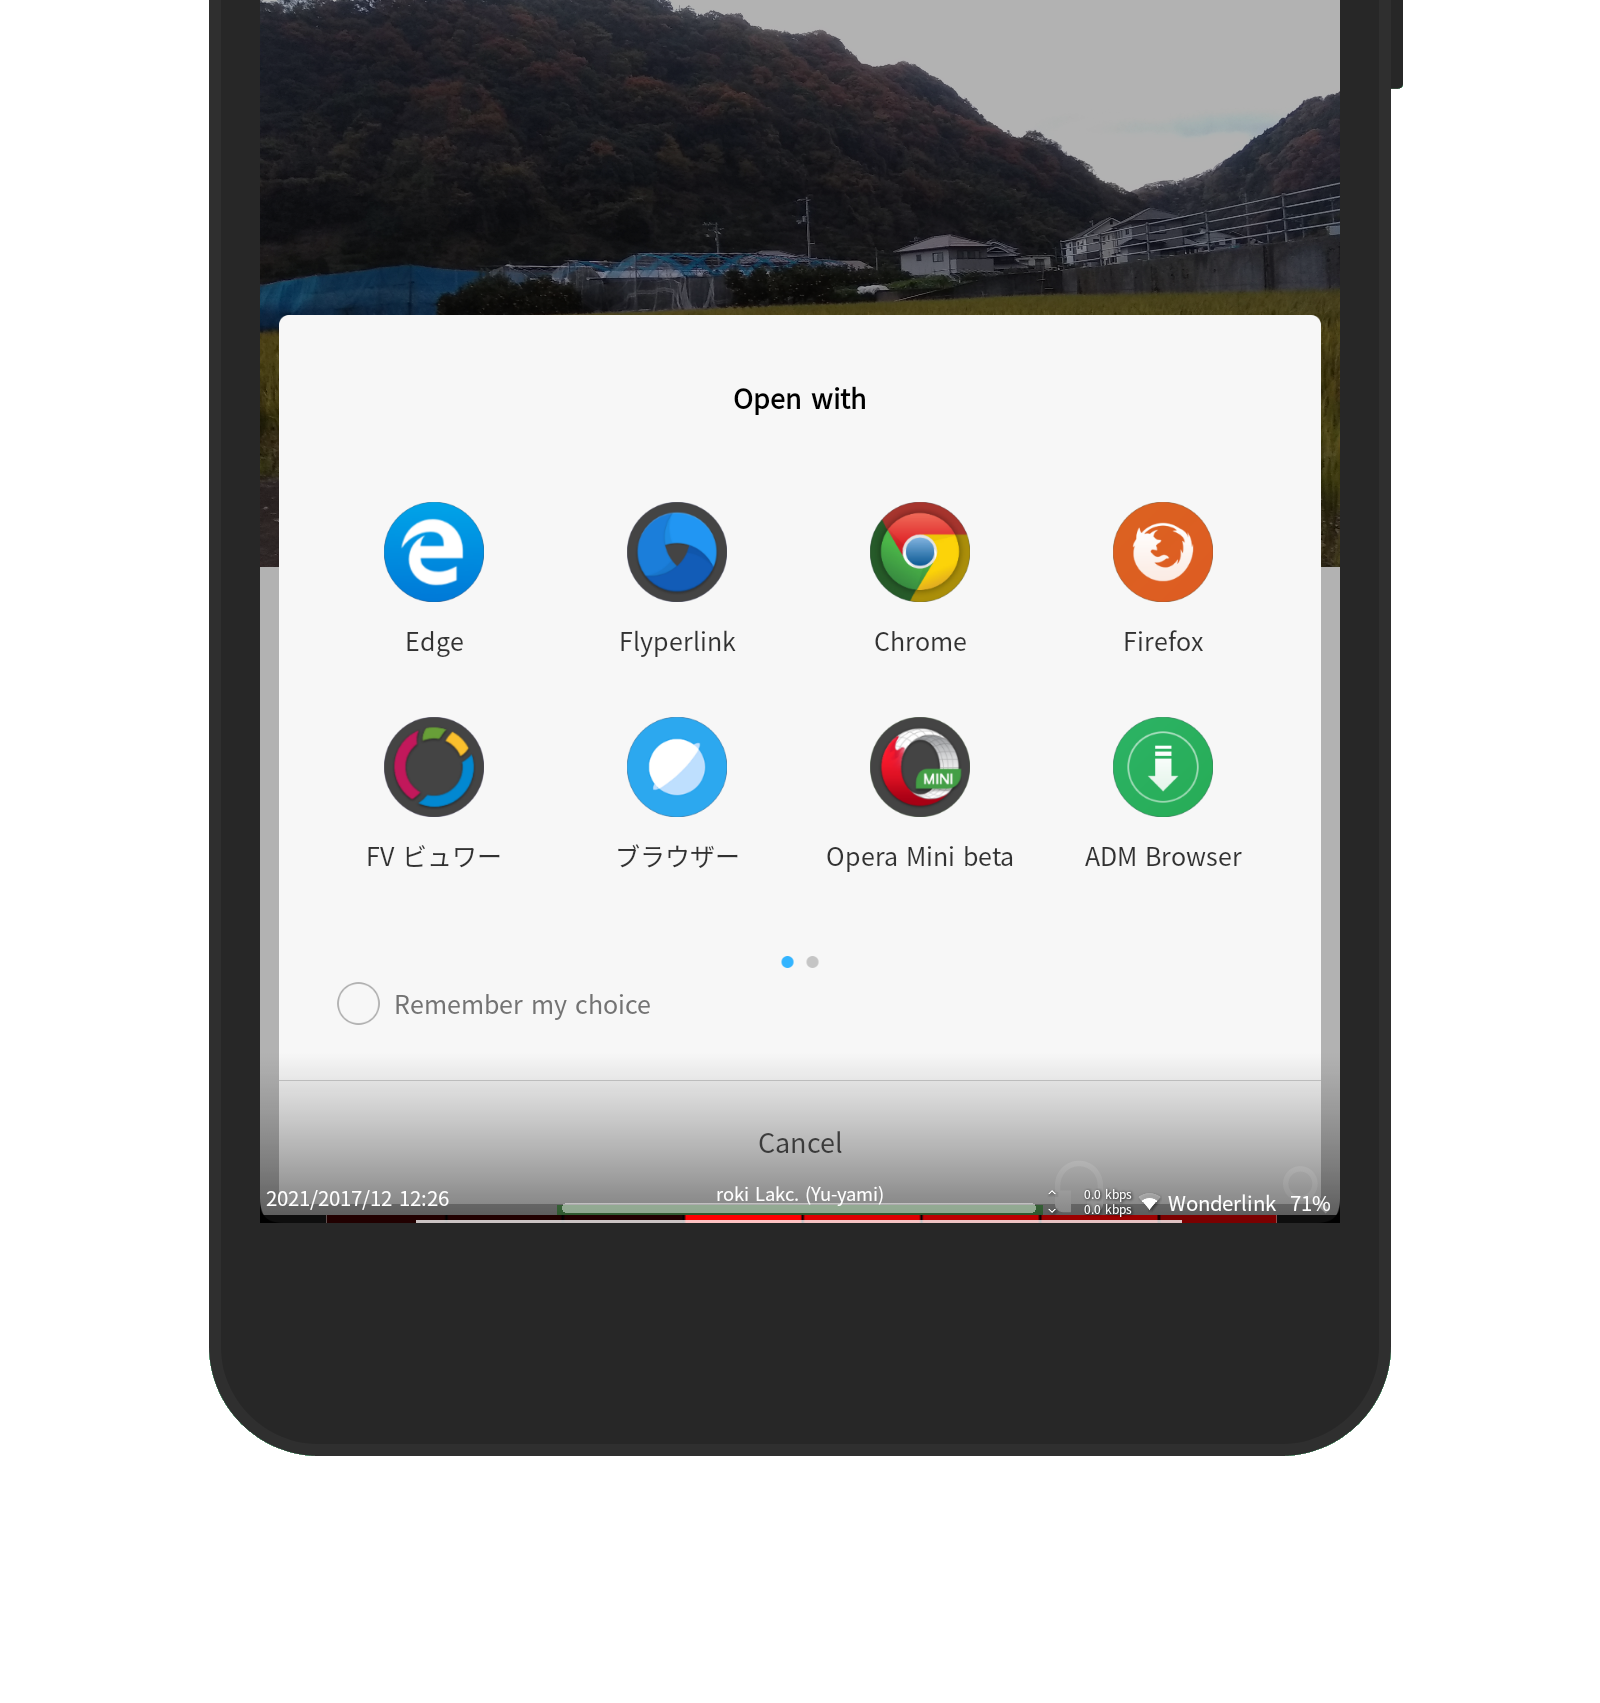
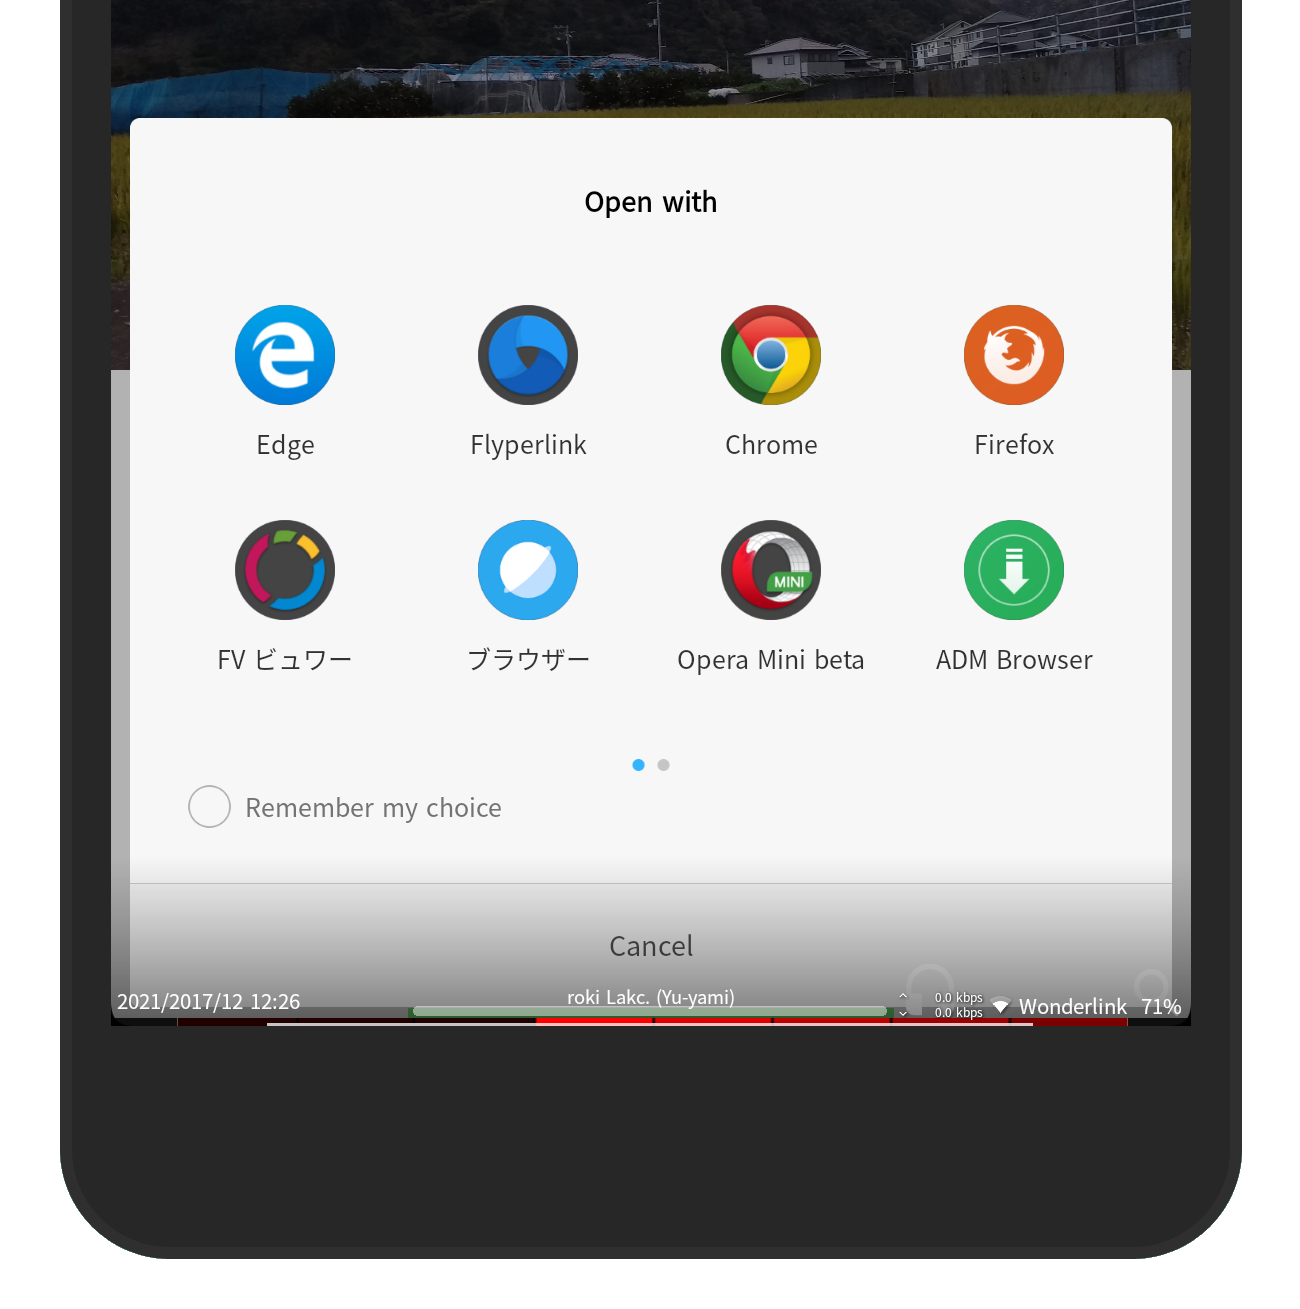
修正

diff --git a/qsqt.html b/qsqt.html
@@ -14,7 +14,7 @@
 <body>
     <main>
         <div class="mainbox" style="background-color: rgb(30, 202, 145);">
-            <div class="picturearea" style="background: url('./img/Apps/qsqt/qsqt-1.png') right center / cover no-repeat fixed;"></div>
+            <div class="picturearea" style="background: url('./img/Apps/qsqt/qsqt-1.png') right center / cover no-repeat;"></div>
             <div class="textarea">
                 <p class="br10"></p>
                 <h1>QSQT 痒いところに手が届くメモツール</h1>
@@ -25,7 +25,7 @@
         </div>
         <p class="br10Apps"></p>
         <div class="mainbox" style="background-color: rgb(127, 161, 255);">
-            <div class="picturearea" style="background: url('./img/Apps/qsqt/qsqt-2.png') right center / cover no-repeat fixed;"></div>
+            <div class="picturearea" style="background: url('./img/Apps/qsqt/qsqt-2.png') right center / cover no-repeat;"></div>
             <div class="textarea">
                 <p class="br10"></p>
                 <h1>見た目は小さくとも。</h1>
@@ -38,7 +38,7 @@
         </div>
         <p class="br10Apps"></p>
         <div class="mainbox" style="background-color: rgb(234, 127, 255);">
-            <div class="picturearea" style="background: url('./img/Apps/qsqt/qsqt-3.png') right center / cover no-repeat fixed;">
+            <div class="picturearea" style="background: url('./img/Apps/qsqt/qsqt-3.png') right center / cover no-repeat;">
 
             </div>
             <div class="textarea">

diff --git a/Tool/AppsFramework.css b/Tool/AppsFramework.css
@@ -49,6 +49,21 @@ footer {
     bottom: 0;
     background: linear-gradient(rgba(255, 255, 255, 0), rgba(0, 0, 0, 0.836));
 }
+@media screen and (min-width: 400px) {
+    footer {
+        font-size: medium;
+    }
+}
+@media screen and (max-width: 399px) {
+    footer {
+        font-size: small;
+    }
+}
+@media screen and (max-width: 325px) {
+    footer {
+        font-size: x-small;
+    }
+}
 
 footer a,
 footer a:link,
@@ -71,13 +86,14 @@ footer a:visited {
     height: 10px;
     clear: left;
 }
+@media screen and (max-width: 699px) {
+    .br10ex {
+        height: 10px;
+    }
 
-.br10ex {
-    height: 10px;
-}
-
-.br10Apps {
-    height: 100px;
+    .br10Apps {
+        height: 100px;
+    }
 }
 @media screen and (min-width: 700px) {
     .br10ex {
@@ -118,8 +134,9 @@ footer a:visited {
     position: relative;
 }
 .mainbox .picturearea{
-    transform:skewY(5deg) scale(1.3);
-    height:40vw;
+    transform:skewY(5deg);
+    height:50vw;
+    width:100%;
 }
 .mainbox .textarea{
     transform:skewY(5deg);
@@ -135,7 +152,7 @@ footer a:visited {
     }
     .mainbox .picturearea{
         width: 50vw;
-        transform:skewY(5deg) scale(1.3);
+        transform:skewY(5deg);
         height: unset;
     }
     .mainbox .textarea{
@@ -144,6 +161,9 @@ footer a:visited {
     }
 }
 h1,
-h3 {
+h2,
+h3,
+h4,
+p {
     color: white;
 }

diff --git a/Tool/main.css b/Tool/main.css
@@ -49,7 +49,21 @@ footer {
     bottom: 0;
     background: linear-gradient(rgba(255, 255, 255, 0), rgba(0, 0, 0, 0.836));
 }
-
+@media screen and (min-width: 400px) {
+    footer {
+        font-size: medium;
+    }
+}
+@media screen and (max-width: 399px) {
+    footer {
+        font-size: small;
+    }
+}
+@media screen and (max-width: 325px) {
+    footer {
+        font-size: x-small;
+    }
+}
 footer a,
 footer a:link,
 footer a:visited {
